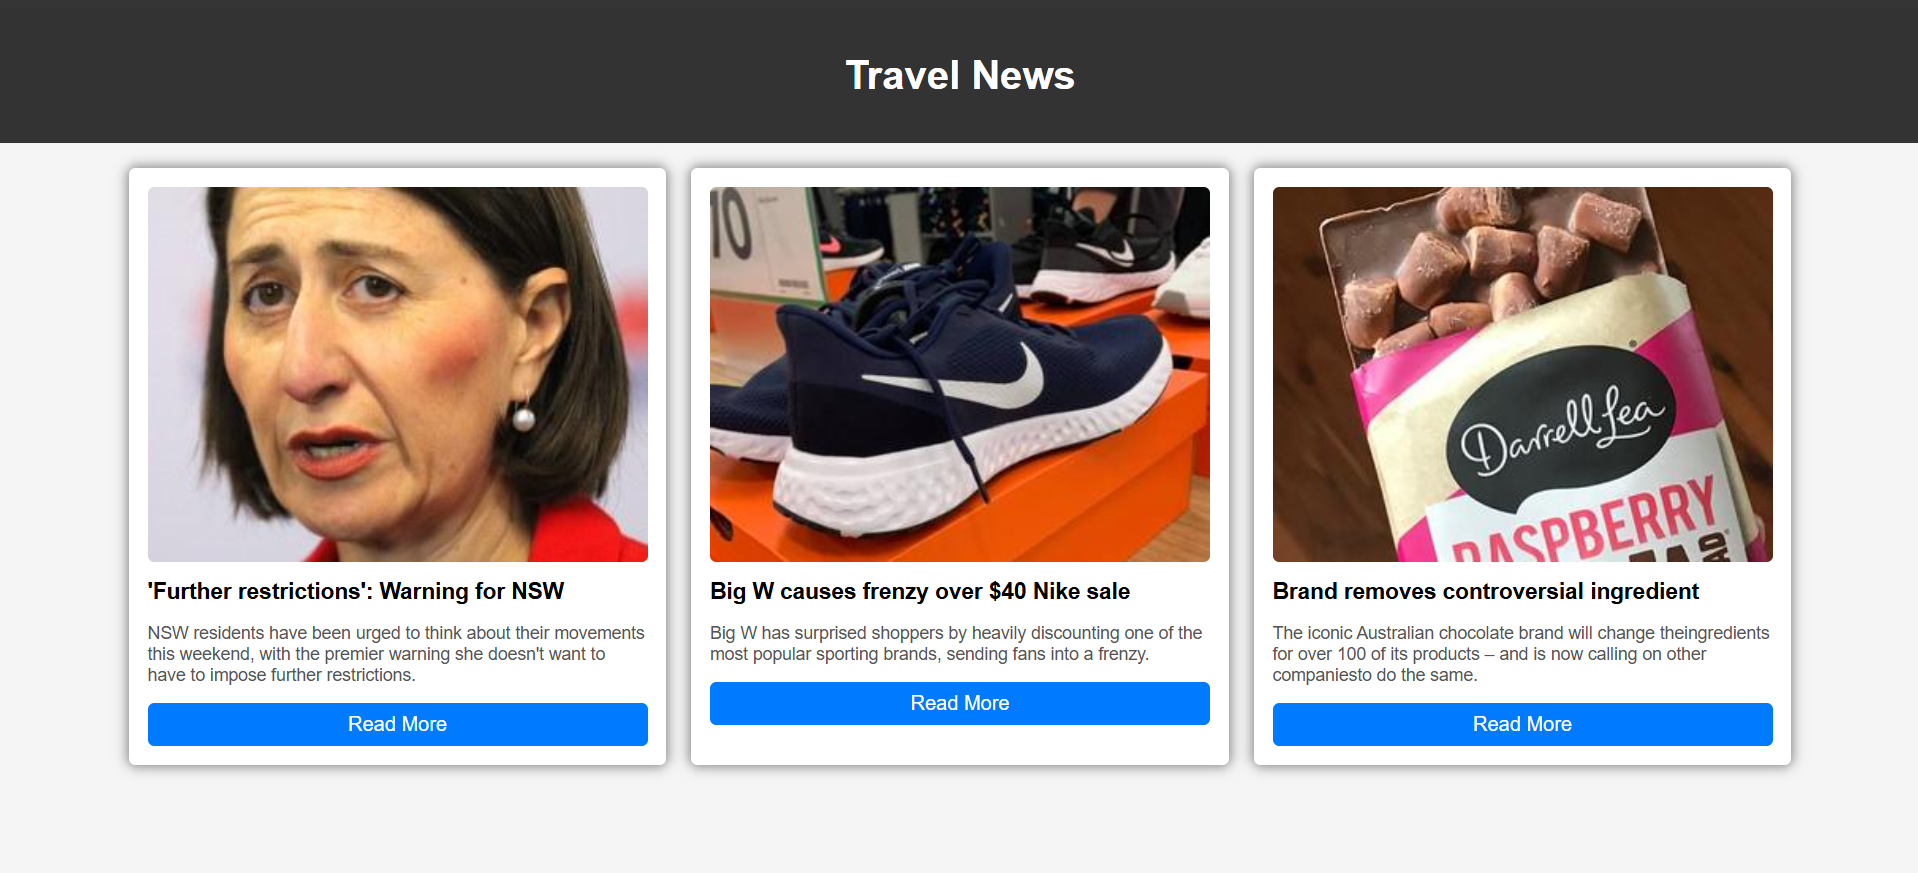
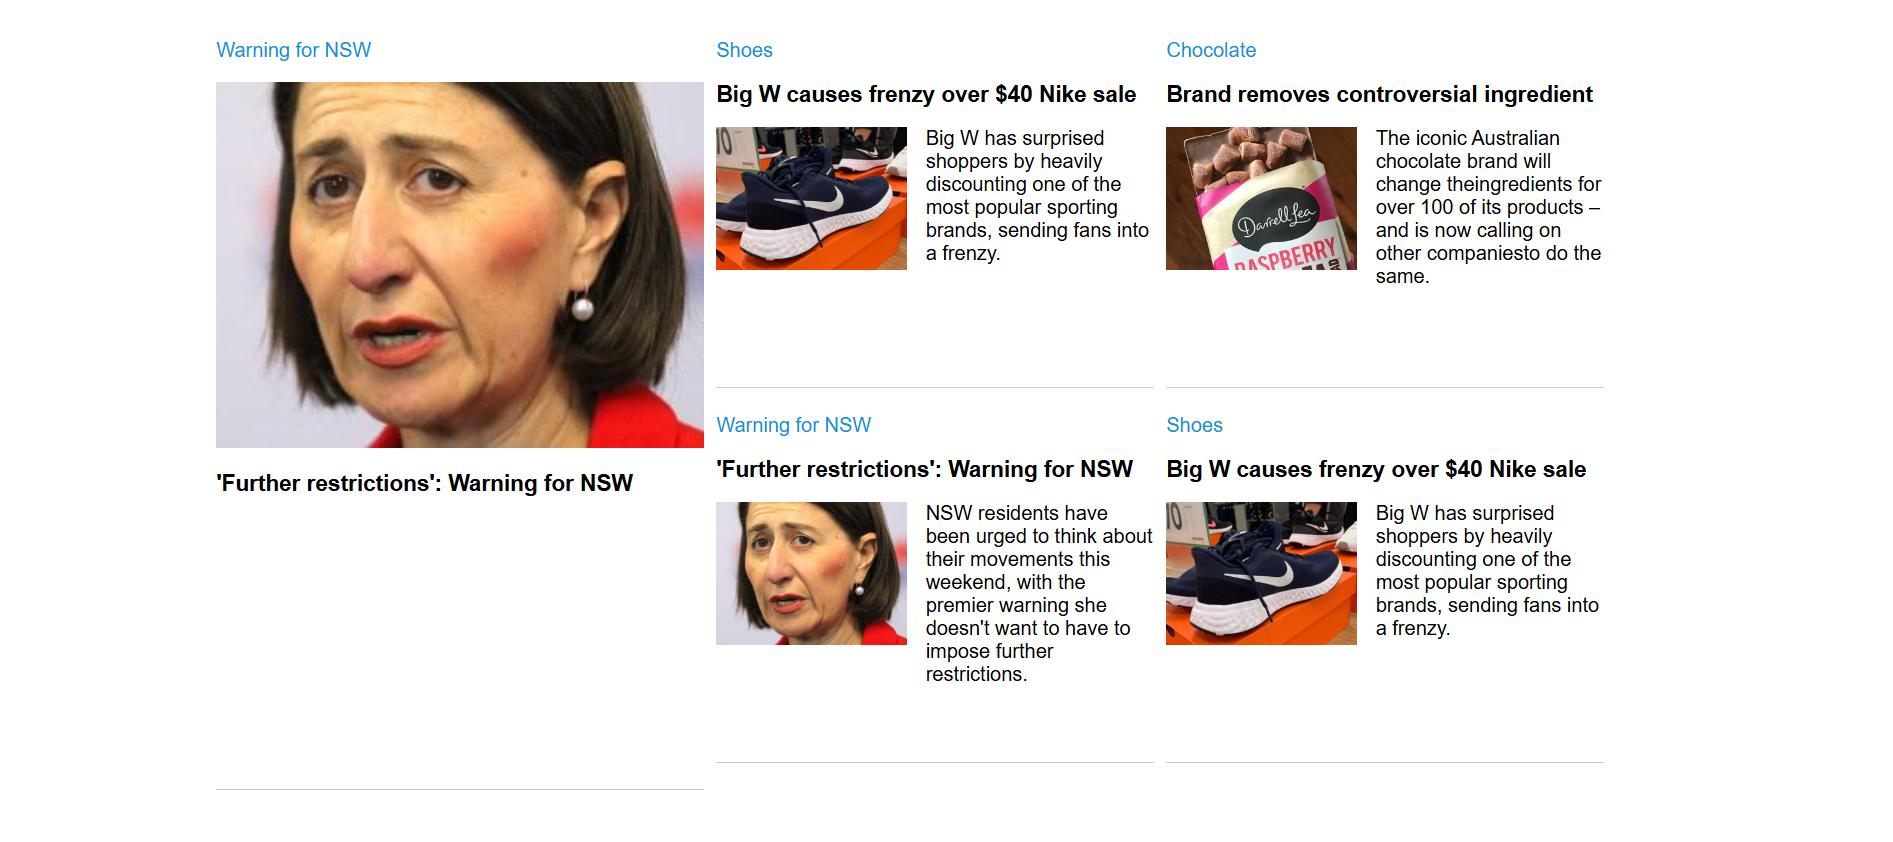
Eighth commit - Changed UI to add responsive for mobile view and also updated the output screenshots.

diff --git a/scripts/index.js b/scripts/index.js
@@ -34,8 +34,9 @@ function renderNews(data) {
             mainArticle.appendChild(newsItem);
             firstArticle = false;
         }else{
-            newsItem.innerHTML = `
-            <div class="side-main-div">
+            const sideMainDiv = document.createElement("div");
+            sideMainDiv.classList.add("side-main-div")
+            sideMainDiv.innerHTML = `
                 <p>${article.thumbnail.title}</p>
                 <h2>${article.headline}</h2>
                 <div class="side-article">
@@ -44,8 +45,21 @@ function renderNews(data) {
                         <p>${article.standfirst || "Read more about this news."}</p>
                     </a>
                 </div>
-            </div>
-        `;
+            `;
+
+            const sideMainDivMobile = document.createElement("div");
+            sideMainDivMobile.classList.add("side-main-div-mobile")
+            sideMainDivMobile.innerHTML = `
+                <p>${article.thumbnail.title}</p>
+                <div class="side-article">
+                    <img src="${article.thumbnail.src}" alt="${article.thumbnail.title}" width="${article.thumbnail.width}" height="${article.thumbnail.height}">
+                    <a href="${article.link}" target="_blank">
+                        <h2>${article.headline}</h2>
+                    </a>
+                </div>
+            `;
+            newsItem.appendChild(sideMainDiv);
+            newsItem.appendChild(sideMainDivMobile);
             sideArticle.appendChild(newsItem);
         }
     });

diff --git a/styles/index.css b/styles/index.css
@@ -97,6 +97,10 @@ body {
     font-size: 18px;
 }
 
+#side-articles .article .side-main-div-mobile{
+    display: none;
+}
+
 /* Responsive Design */
 @media (max-width: 768px) {
     #news-container {
@@ -104,11 +108,40 @@ body {
     }
 
     #main-article, .article {
-        flex: unset;
-        width: 100%;
+        width: 98%;
+        margin: 0;
+        height: auto;
     }
 
     #side-articles{
-        max-height: 400px;
+        flex: unset;
+        height: auto;
+    }
+
+    #side-articles .article {
+        max-width: 97%;
+        height: auto;
+        padding-bottom: 15px;
+    }
+
+    #side-articles .article .side-main-div{
+        display: none;
+    }
+
+    #side-articles .article .side-main-div-mobile{
+        display: block;
+    }
+
+    #side-articles .article .side-main-div-mobile p{
+        color: #1691db;
+    }
+
+    #side-articles .article .side-main-div-mobile .side-article img{
+        width: 35%;
+    }
+
+    #side-articles .article .side-main-div-mobile .side-article a h2{
+        font-size: 18px;
+        margin: 0;
     }
 }
